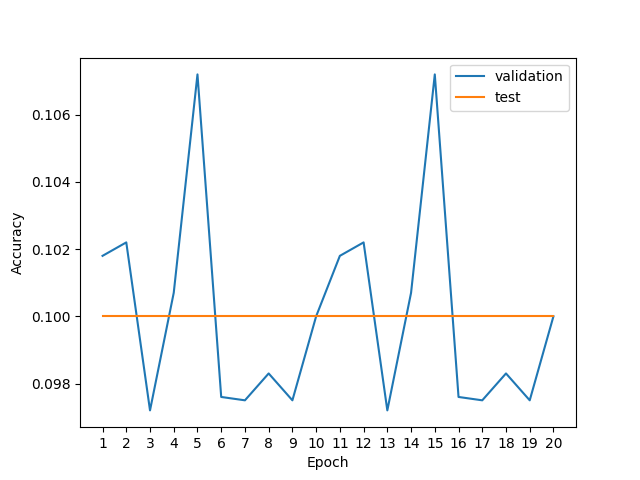
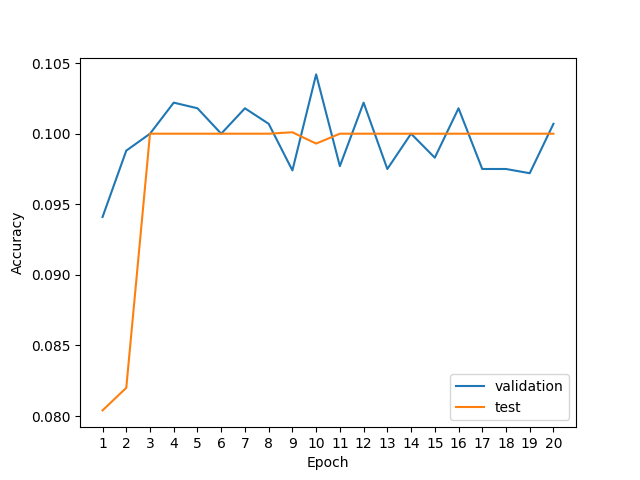
Bug correction in update weights

diff --git a/hw1-q1.py b/hw1-q1.py
@@ -59,7 +59,7 @@ class Perceptron(LinearModel):
         #print(self.W.shape)
         y_hat = (self.W.dot(x_i)).argmax(axis=0)
         if y_hat != y_i:
-            self.W += kwargs['learning_rate'] * y_i * x_i
+            #self.W += kwargs['learning_rate'] * y_i * x_i
             self.W[y_i, :] += kwargs['learning_rate'] * x_i
             self.W[y_hat, :] -= kwargs['learning_rate'] * x_i
             #print(y_i*x_i)
@@ -95,6 +95,7 @@ class MLP(object):
         # Initialize an MLP with a single hidden layer.
         self.W1 = np.random.normal(0.1, 0.1**2, size=(units[1],units[0]))
         self.W2 = np.random.normal(0.1, 0.1**2, size=(units[2],units[1]))
+        self.aux = self.W1
         self.b1 = np.zeros(units[1])
         self.b2 = np.zeros(units[2])
 
@@ -183,11 +184,14 @@ class MLP(object):
         grad_biases.reverse()
         return grad_weights, grad_biases
     
-    def update_parameters(self,weights, biases, grad_weights, grad_biases, eta):
-        num_layers = len(weights)
-        for i in range(num_layers):
-            weights[i] -= eta*grad_weights[i]
-            biases[i] -= eta*grad_biases[i]
+    def update_parameters(self, grad_weights, grad_biases, eta):
+        #aux = self.W1
+        self.W1 = self.W1 - eta*grad_weights[0]
+        self.W2 = self.W2 - eta*grad_weights[1]
+        self.b1 = self.b1 - eta*grad_biases[0]
+        self.b2 = self.b2 - eta*grad_biases[1]
+        #np.set_printoptions(threshold=np.inf)
+        #print(self.W1 == aux)
     
     def predict_label(self,output):
         # The most probable label is also the label with the largest logit.
@@ -202,20 +206,27 @@ class MLP(object):
 
         #loss = self.compute_loss(output, y)
 
-        print(output)
-        print(y_hat)
+        #print(output)
+        #print(y_hat)
         #print(loss)
 
         grad_weights, grad_biases = self.backward(X[0], y[0], output, hiddens, [self.W1, self.W2])
+        
+        np.set_printoptions(threshold=np.inf)
+        print(grad_weights)
 
-        self.update_parameters([self.W1, self.W2], [self.b1, self.b2], grad_weights, grad_biases, eta=0.1)
+        self.update_parameters(grad_weights, grad_biases, learning_rate)
+        
+        #print(self.W1)
+        #print(len(weights))
 
-        print(self.W1)
-        print(self.W2)
-        print(self.b1)
-        print(self.b2)
+        #np.set_printoptions(threshold=np.inf)
+        #print(self.W1 == self.aux)
+        #print(self.W2)
+        #print(self.b1)
+        #print(self.b2)
 
-        print(grad_weights, grad_biases)
+        #print(grad_weights, grad_biases)
 
 
 def plot(epochs, valid_accs, test_accs):
